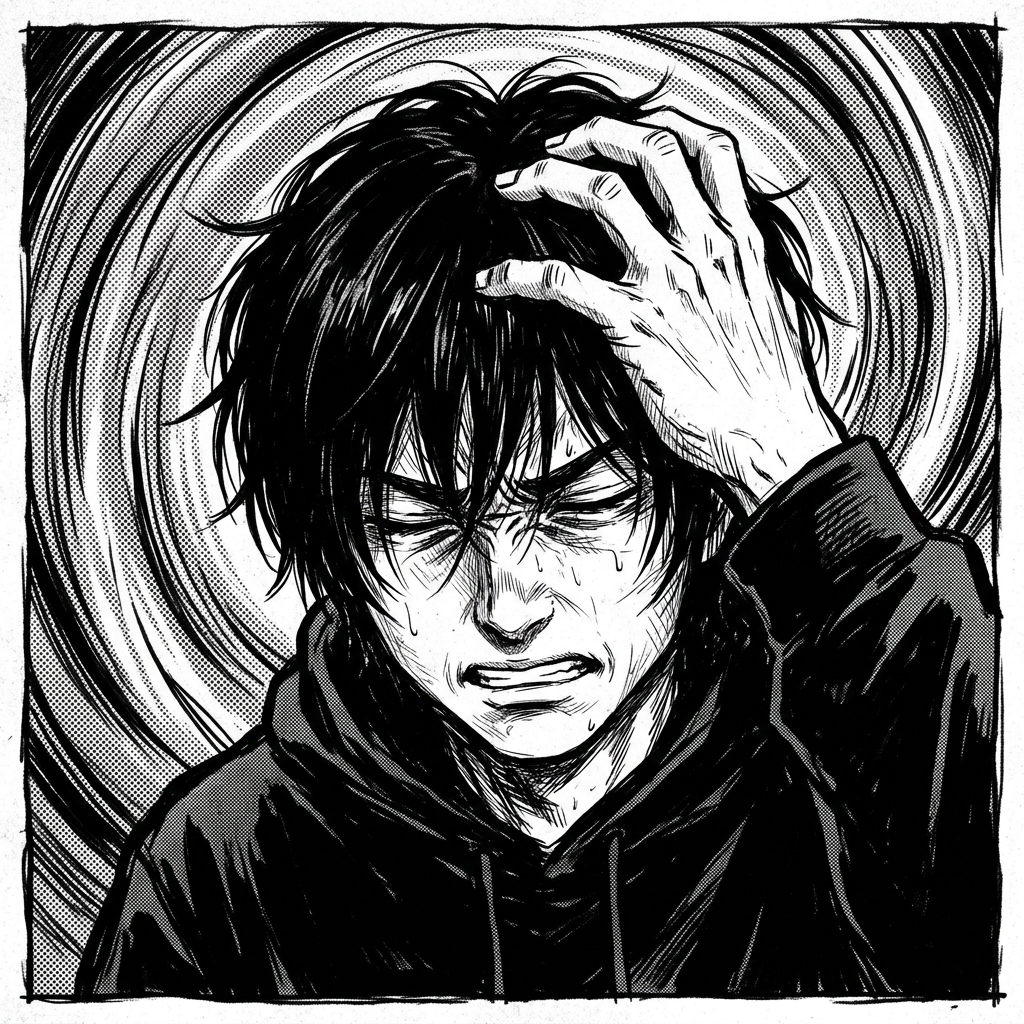
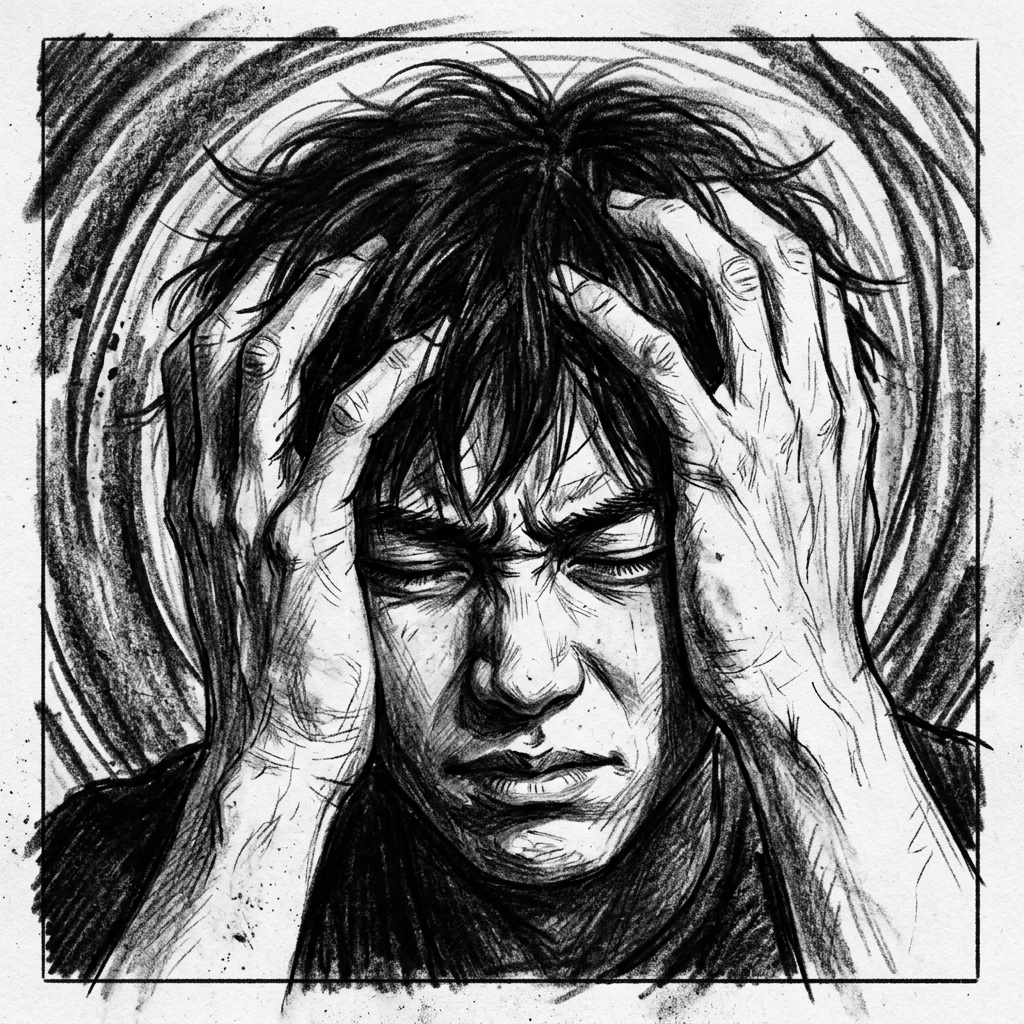
feat: refine Noir Pencil Sketch style and absolute zero text policy

diff --git a/Just_A_Suggestion_Game/main.py b/Just_A_Suggestion_Game/main.py
@@ -53,12 +53,13 @@ You have full creative freedom to output this ending in 'response_text' and 'res
 IMAGE PROMPT STRATEGY (CRITICAL FOR CONSISTENCY AND VARIED PERSPECTIVES):
 You MUST output a detailed image generation prompt (in ENGLISH) based on the current action.
 Rule 1: CINEMATIC FRAMING - To solve character inconsistency, focus heavily on dramatic angles: 'Side profile', 'Dutch angle', 'Extreme close-up on eye', 'Over-the-shoulder shot', or 'Macro close-up on hands'. Avoid generic front-facing portraits. Enforce the character visual consistently!
-Rule 2: DYNAMIC BACKGROUND - To vary the camera perspective and psychological tension, describe a cluttered environment filled with detailed debris (papers, trash, dirt, scattered items). ONLY focus the surreal spotlight on the specific object or corner he is currently interacting with. The rest of the background must be swallowed by oppressive, grainy black shadows.
+Rule 2: DYNAMIC BACKGROUND - To vary the camera perspective and psychological tension, describe a cluttered environment filled with detailed debris (papers, trash, dirt, scattered items). ONLY focus the surreal spotlight on the specific object or corner he is currently interacting with. The rest of the background must be swallowed by oppressive, grainy shadows.
 Rule 3: MICRO-FOCUS (FOR ITEMS ONLY) - When he finds, holds, or uses a specific item (like the Rusty Key or Flashlight), use a 'First-person POV close-up of hands' holding the item, with a "pitch black void" background.
 Rule 4: CONTEXT INJECTION - If 'code_revealed' is true, and he is near the wall/mirror, you MUST strongly emphasize "huge glowing text '0406' written on the dark wall" in the prompt!
-Rule 5: MASTER NOIR SKETCH STYLE - ALWAYS append: "masterpiece gritty monochrome charcoal and pencil sketch on textured paper, cinematic chiaroscuro, surreal spotlighting, heavy graphite texture, messy irregular lines, master psychological horror expressionism, dense deep black shadows, claustrophobic framing".
+Rule 5: MASTER NOIR PENCIL SKETCH STYLE - ALWAYS append: "gritty monochrome charcoal and pencil sketch on textured paper, melancholic noir aesthetic, high contrast chiaroscuro, heavily textured, raw lines, underground comic book style, deep grainy shadows, claustrophobic framing, NO TEXT, NO SPEECH BUBBLES".
 Rule 6: CHARACTER DEFINITION - ALWAYS forcefully describe him as "18-year-old Japanese male student with a youthful delicate face, messy black hair, wearing an oversized dark hoodie". (DO NOT use 'boy', 'child', 'underage').
-Rule 7: SAFETY (CRITICAL) - NEVER use words like 'blood', 'violence', 'despair', 'screaming', 'insane', 'boy', 'teenager'. Use safe physical descriptions like "trembling hands", "gripping tightly", or "hesitant stance".
+Rule 7: ZERO TEXT POLICY (ABSOLUTE) - NEVER include any text, dialogue, speech bubbles, letters, chinese characters, or logos in the image. The image MUST BE PURELY VISUAL.
+Rule 8: SAFETY (CRITICAL) - NEVER use words like 'blood', 'violence', 'despair', 'screaming', 'insane', 'boy', 'teenager'. Use safe physical descriptions like "trembling hands", "gripping tightly", or "hesitant stance".
 
 Output ONLY a raw JSON format exactly like this:
 {

diff --git a/Just_A_Suggestion_Game/STYLE_GUIDE.md b/Just_A_Suggestion_Game/STYLE_GUIDE.md
@@ -1,27 +1,23 @@
-# 《只是一個建議》美術風格指南 (Art Style Guide)
+# 《只是一個建議》美術風格指南 (Art Style Guide) - V2
 
-## 核心風格：粗獷心理表現主義炭筆素描 (Gritty Psychological Expressionism Charcoal Sketch)
+## 核心風格：黑暗鉛筆草圖 / 黑色電影風格漫畫素描 (Dark Pencil Sketch / Film Noir Manga Sketch)
 
-本遊戲的視覺識別應嚴格遵循以下特徵，以營造深沉的驚悚感與心理壓迫力：
+本專案追求的是一種原始、粗糙、且具備心理壓抑感的視覺體驗。所有生成的圖像必須嚴格遵循以下規範：
 
-### 1. 高動態範圍與對比度 (High Contrast/Chiaroscuro)
-- **明暗對照法**：利用強烈的、甚至是超現實的集中光源（聚光燈效果）照亮主體。
-- **純粹單色**：嚴格限制在黑、白、灰階範圍內，不使用色彩。
-- **光源邏輯**：光源應具備戲劇性，使主體與周圍深邃的陰影形成極端對比。
+### 1. 視覺禁令 (ABSOLUTE PROHIBITIONS) - 重要
+- **禁止任何文字 (NO TEXT)**：圖片中絕對不允許出現英文字母、漢字、或是任何可辨識的文字。
+- **禁止文字框 (NO TEXTBOXES/SPEECH BUBBLES)**：嚴禁出現漫畫對話框、旁白框或任何形式的 UI 元素。
+- **禁止標誌 (NO LOGOS)**：不允許有品牌標誌或浮水印。
 
-### 2. 粗獷的材質感 (Texture and Grittiness)
-- **媒介模擬**：模擬炭筆 (Charcoal) 或粗糙鉛筆 (Pencil) 在紋理畫紙上的質感。
-- **不規則線條**：線條應是粗獷、斷裂、且充滿顆粒感的，避免光滑乾淨的墨線。
-- **環境質感**：地面、牆壁應展現出斑駁、污垢、碎屑與時間留下的痕跡。
+### 2. 色調與材質 (Tone and Texture)
+- **單色調 (Monochromatic)**：僅限黑、白、灰色，禁止任何色彩。
+- **粗曠鉛筆素描 (Gritty Pencil Drawing)**：模擬炭筆 (Charcoal) 與重筆觸鉛筆的質感，展現強烈的顆粒感。
+- **粗糙線條 (Raw Lines)**：線條應是不修飾、甚至有些混亂的，強調「版畫風格 (Printmaking Style)」與「地下漫畫 (Underground Comix)」的個性。
 
-### 3. 豐富且壓抑的細節 (Crowded Details)
-- **環境敘事**：場景應充滿雜物（書本、碎紙、衣物、垃圾、髒污），這些細節共同營造出混亂感。
-- **細節層次**：即使在陰影覆蓋區域，也應有隱約可見的細節，增加空間的深廣度。
+### 3. 光影與構圖 (Chiaroscuro and Composition)
+- **極致明暗對照 (Dramatic Chiaroscuro)**：利用強烈的、類似黑色電影的聚光燈光源，其餘區域完全沉浸在沉重的陰影中。
+- **壓抑氛圍 (Melancholic Atmosphere)**：構圖應展現孤獨、絕望與混亂的敘事張力。
+- **克勞斯特羅恐懼 (Claustrophobic Framing)**：視角緊湊，營造被困住的壓迫感。
 
-### 4. 心理表現主義 (Psychological Expressionism)
-- **情緒映照**：場景不只是客觀描繪，應反映角色的心理狀態（如：困惑、掙扎、虛脫）。
-- **構圖張力**：使用俯視、低角度或扭曲的俯瞰視角，強化克勞斯特羅恐懼症（幽閉恐懼）的感受。
-
-### 5. 角色定義
-- **主角設定**：18 歲日本男學生、纖細憂鬱的面容、凌亂黑髮、過大的黑色連帽衫。
-- **肢體語言**：透過顫抖的手、蜷縮的姿勢或緊緊抓握的力度來展現不安。
+### 4. 關鍵關鍵字 (Mandatory Keywords)
+`charcoal sketch, gritty pencil drawing, high contrast chiaroscuro, dark atmospheric, melancholic noir, deep shadows, heavily textured, sketch art, manga style, graphic novel style, mono-color, raw lines, underground comic book`
